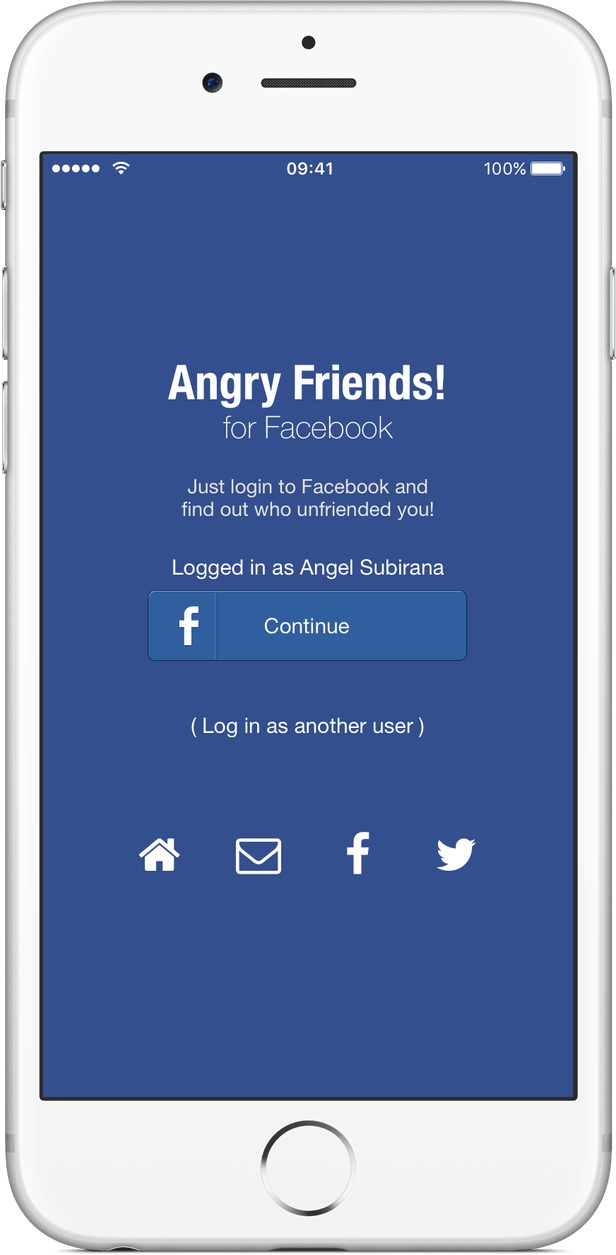
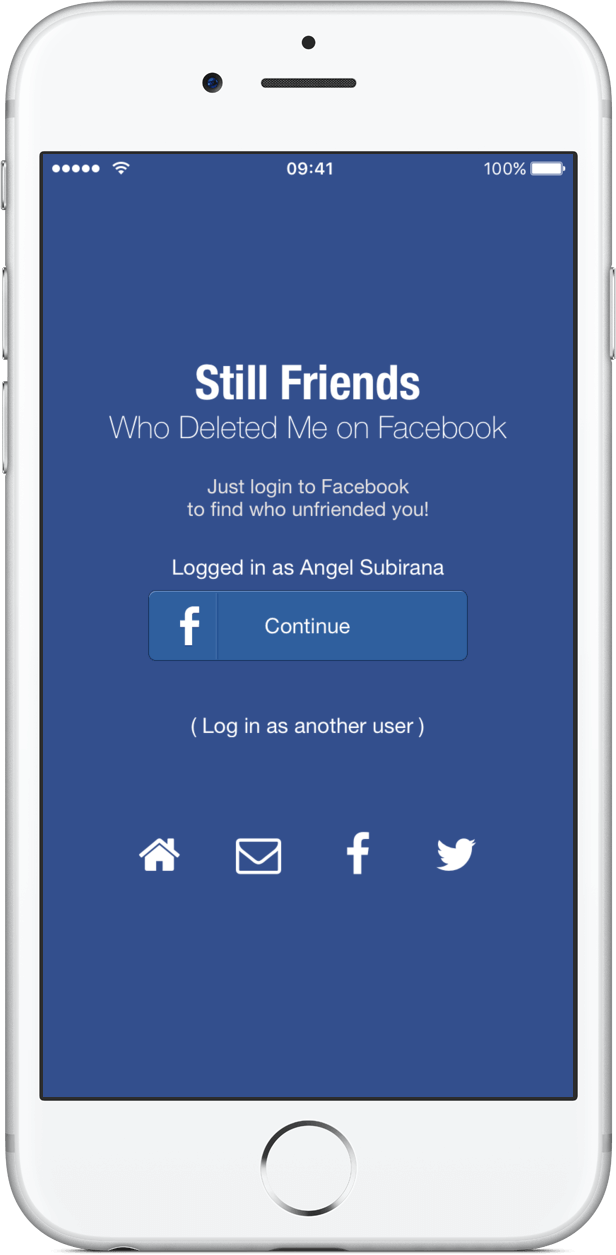
no message

diff --git a/_site/privacy.html b/_site/privacy.html
@@ -233,7 +233,7 @@ Last Edited on 2016-05-03</div>
         
 <p>All Rights Reserved. © 2016 <a href="http://www.bobgoo.com">Angel Subirana</a></p>
 
-<p><a href="https://twitter.com/angryfriendsapp"><span class="fa-stack fa-lg">
+<p><a href="https://twitter.com/stillfriendsapp"><span class="fa-stack fa-lg">
 <i class="fa fa-circle fa-stack-2x"></i>
 <i class="fa fa-twitter fa-stack-1x" style="color: black;"></i>
 </span></a>

diff --git a/_site/intro.html b/_site/intro.html
@@ -1,6 +1,6 @@
 <p><img src="/img/Icon-Rounded-512.png" width="180" /></p>
 
-<h1>Angry Friends</h1>
+<h1>Still Friends</h1>
 
 <h2>Who Deleted Me on Facebook</h2>
 

diff --git a/_includes/footer.md b/_includes/footer.md
@@ -2,7 +2,7 @@
 
 All Rights Reserved. © 2016 [Angel Subirana](http://www.bobgoo.com)
 
-<a href="https://twitter.com/angryfriendsapp"><span class="fa-stack fa-lg">
+<a href="https://twitter.com/stillfriendsapp"><span class="fa-stack fa-lg">
 <i class="fa fa-circle fa-stack-2x"></i>
 <i class="fa fa-twitter fa-stack-1x" style="color: black;"></i>
 </span></a>

diff --git a/_posts/2000-01-01-intro.md b/_posts/2000-01-01-intro.md
@@ -7,7 +7,7 @@ style: center
 
 <img src="/img/Icon-Rounded-512.png" width="180" />
 
-# Angry Friends
+# Still Friends
 
 ## Who Deleted Me on Facebook
 
